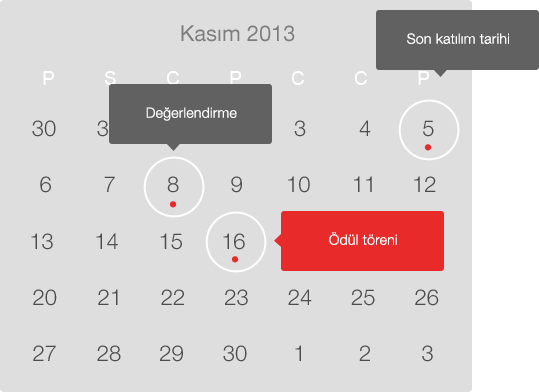
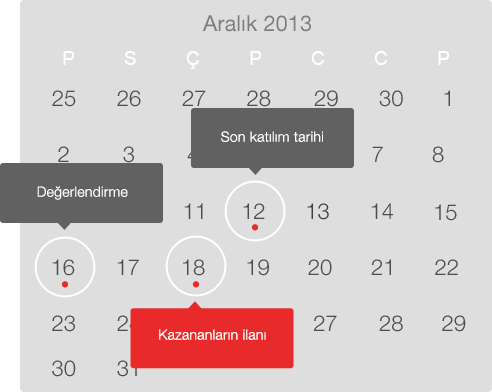
musteri revizeleri

diff --git a/application/views/welcome.php b/application/views/welcome.php
@@ -351,13 +351,14 @@ var loaded = 0;
 					$(".sol").fadeIn();
 					$(".case3dloading").hide();
 					var don = setInterval(function(){
-						if(frame == 40){
-							clearInterval(don);
+						if(frame == 80){
+							nextFrame(frame);
+							frame = 0;
 						}else{
 							nextFrame(frame);
 							frame++;
 						}
-					}, 50);
+					}, 60);
 				}
 
 				$(".yukleme_yuzde").text(((100 / 81) * loaded).toFixed(0));
@@ -706,9 +707,11 @@ var frame = 0;
 							<img src="<?php echo base_url(); ?>img/case/Case.RGB_color.00<?php echo $i; ?>.png" class="caseframe caseframe<?php echo $k;?>" data-frame="<?php echo $k;?>">
 						<?php $k++; } ?>
 					</div>
+					<? /*
 					<div class="slide-wrapper" style="margin-top:-32px;position:relative; z-index:99">
 						<div id="slider" style="width:300px;margin-left:16px;"></div>
 					</div>
+					*/?>
 				</div>
 			</div>
 
@@ -818,13 +821,11 @@ var frame = 0;
 				<h2>Yarışma Teması</h2>
 				<span class="pagekapat">X</span>
 				<div class="body" style="width:520px; margin:30px; line-height:20px;">
-					<p style="font-size:18px;"><span style="font-weight:bold;">Konsept:</span>Akıllı Telefon Case Yarışması</p>
+					<p style="font-size:18px;"><span style="font-weight:bold;">Konsept:</span>Akıllı Telefon Case Tasarımı  </p>
 					<br>
-					<p>Bridgestone olarak, üniversitelerin Güzel Sanatlar Fakültelerinde öğrenim gören, yeni mezun ya da yeteneğine güvenen her daldan sanatçıyı günlük hayatın vazgeçilmez bir parçası haline gelen akıllı telefonlara case tasarlamaya davet ediyoruz! </p>
-					<br>
-					<p>Tasarım ve teknolojinin mükemmel uyumunu yakalamak için çıktığımız yolda “emniyet”e verdiğimiz önemi kendi tasarımlarına aktarabilecek genç yetenekler! Bridgestone Tasarım Yarışması büyük ödülleriyle sizi bekliyor…</p>
-					<br>
-					<p>Eğer sen de emniyet ve/veya lastiği tasarımlarımda en yaratıcı olarak ben kullanırım diyorsan; durma, tasarla, gönder!</p>
+					<p>Bridgestone olarak, yeteneğine güvenen her daldan sanatçıyı günlük hayatın vazgeçilmez bir parçası haline gelen akıllı telefonlara case tasarlamaya davet ediyoruz! </p>
+					<p>Tasarım ve teknolojinin mükemmel uyumunu yakalamak için çıktığımız yolda yaratıcılığa verdiğimiz önemi kendi tasarımlarına aktarabilecek genç yetenekler! Bridgestone Tasarım Yarışması büyük ödülleriyle sizi bekliyor.
+					<p>Eğer sen de lastik konseptini tasarımlarımda en yaratıcı olarak ben kullanırım diyorsan; durma, tasarla, gönder!</p>
 					<a href="#" class="case-indir"><img src="<?php echo base_url();?>img/caseindir-buton.png"></a>
 				</div>
 			</div>
@@ -1016,7 +1017,7 @@ var frame = 0;
 
 								<br>
 								<h4>YARIŞMANIN AMACI</h4>
-								<p>Üniversitelerin tasarım ile ilgili bölümlerinde öğrenim gören veya bu bölümlerden yeni mezun olmuş “Geleceğin Başarılı Tasarımcıları”nın yaratıcılıklarını geliştirmek, kariyerlerini desteklemek amacıyla düzenlenmektedir. </p>
+								<p>"Geleceğin Basşarılı Tasarımcıları'nın yaratıcılıklarını geliştirmek, kariyerlerini desteklemek amacıyla düzenlenmektedir.</p>
 								<br>
 								<h4>DEĞERLENDİRME KRİTERLERİ </h4>
 								<p>Jürinin değerlendirmesinde dikkate alınacak hususlar aşağıdaki gibidir;</p>
@@ -1040,29 +1041,23 @@ var frame = 0;
 								</p>
 								<br>
 								<h4>BAŞVURU KOŞULLARI</h4>
-								<p>T.C. vatandaşı olmak veya - T.C. vatandaşı olmayanlar için - T.C. üniversitelerinin B fıkrasında sözü edilen ilgili bölümlerinde öğrenci olmak.</p>
-								 <br>
-								<p>Yarışma, üniversitelerin tasarım ile ilgili bölümlerine kayıtlı lisans öğrencilerine ve bu bölümlerden mezuniyetleri üzerinden 1yıl geçmemiş yeni mezunlara açıktır.</p>
-								  <br>
-								<p>Katılımcı, en fazla 3 tasarım ile yarışmaya katılabilir.</p>
-								 <br>
-								<p>Yarışmaya katılan her projede özgünlük, daha önce başka bir yerde üretilmemiş olması, başka bir yarışmada ödül almamış olması şartları aranmaktadır. Bunun aksi bir durumun tespiti halinde, proje yarışmadan diskalifiye edilir. Ayrıca, yarışmaya gönderilen eserin özgün bir çalışma olmaması, aksine bir iddia olması ve üçüncü kişilerin tasarım üzerinde hak iddia etmesi durumunda sorumluluk yarışmacıya ait olacaktır.</p>
-								<br>
-								<p>Finale kalan ilk 10 finalist, tasarımlarının kullanım haklarını, hiçbir koşul öne sürmeksizin sözleşme ile Brisa Bridgestone Sabancı Lastik Sanayi ve Ticaret A. Ş.’ye devretmiş sayılacaktır. </p>
-								<br>
-								<p>Yarışma sonrası tasarımcılar verilecek ödüllerin dışında Brisa Bridgestone Sabancı Lastik Sanayi ve Ticaret A. Ş.’den hiçbir talep, hak ve iddiada bulunamazlar. </p>
-								<br>
-								<p>Finale kalan tasarımların uygulanması ve üretimi durumunda proje sahiplerine ayrıca bir ücret ödenmez. </p>
-								<br>
-								<p>Bu projelerin Fikir ve Sanat Eserleri Kanunu (FSEK) kapsamında tüm mali ve mülkiyet hakları süre, yer ve muhteva bakımından sınırsız olmak kaydıyla münhasıran Brisa Bridgestone Sabancı Lastik Sanayi ve Ticaret A. Ş.’ye devir edilmiş olur. </p>
-								<br>
-								<p>Proje sahibi, isminin yayınlanmasına şimdiden muvafakat eder. </p>
-								<br>
-								<p>Brisa Bridgestone Sabancı Lastik Sanayi ve Ticaret A. Ş. organizasyonla ilgili yaptığı değişikliklerden sorumlu tutulamaz.</p>
-								<br>
-								<p>Yarışmaya müracaat edebilmek için, tasarım sahiplerinin aşağıda yer alan taahhütnameyi imzalayarak Promoküp Bilişim Teknolojileri A.Ş’nin resmi adresine göndermeleri gerekmektedir:</p>
-								<br>
+								<p>Katılımcı, istediği sayıda tasarım ile yarışmaya katılabilir.</p>
 
+								<p>Yarışmaya katılan her projede özgünlük, daha önce başka bir yerde üretilmemiş olması, başka bir yarışmada ödül almamış olması şartları aranmaktadır. Bunun aksi bir durumun tespiti halinde, proje yarışmadan diskalifiye edilir. Ayrıca, yarışmaya gönderilen eserin özgün bir çalışma olmaması, aksine bir iddia olması ve üçüncü kişilerin tasarım üzerinde hak iddia etmesi durumunda sorumluluk yarışmacıya ait olacaktır.</p>
+
+								<p>Finale kalan ilk 10 finalist, tasarımlarının kullanım haklarını, hiçbir koşul öne sürmeksizin sözleşme ile Brisa Bridgestone </p>
+
+								<p>Sabancı Lastik Sanayi ve Ticaret A. Ş.’ye devretmiş sayılacaktır. </p>
+
+								<p>Yarışma sonrası tasarımcılar verilecek ödüllerin dışında Brisa Bridgestone Sabancı Lastik Sanayi ve Ticaret A. Ş.’den hiçbir talep, hak ve iddiada bulunamazlar. </p>
+
+								<p>Finale kalan tasarımların uygulanması ve üretimi durumunda proje sahiplerine ayrıca bir ücret ödenmez. </p>
+
+								<p>Bu projelerin Fikir ve Sanat Eserleri Kanunu (FSEK) kapsamında tüm mali ve mülkiyet hakları süre, yer ve muhteva bakımından sınırsız olmak kaydıyla münhasıran Brisa Bridgestone Sabancı Lastik Sanayi ve Ticaret A. Ş.’ye devir edilmiş olur. </p>
+
+								<p>Proje sahibi, isminin yayınlanmasına şimdiden muvafakat eder. </p>
+
+								<p>Brisa Bridgestone Sabancı Lastik Sanayi ve Ticaret A. Ş. organizasyonla ilgili yaptığı değişikliklerden sorumlu tutulamaz.</p>
 
 								<h4>TAAHHÜTNAME</h4>
 								<p>Brisa Bridgestone Sabancı Lastik Sanayi ve Ticaret A. Ş. tarafından düzenlenmekte olan “Bridgestone Tasarım Yarışması 2013” yarışmasına sunmuş olduğum tasarım ile katılmış bulunmaktayım. </p>
@@ -1085,16 +1080,20 @@ var frame = 0;
 								<br>
 
 								<h4>VERİLECEK ÖDÜLLER </h4>
-								<p>Birincilik Ödülü MacBook Pro 13" Retina DC i5 2.5GHz/8GB/128GB flash/HDG4000 ve  CS6 ADOBE DESIGN STD 6 WIN & MAC AOO LICENSE</p>
-								<p>İkincilik Ödülü MacBook Air 11" DC i5 1.3GHz/4GB/128GB/HDG ve CS6 ADOBE DESIGN STD 6 WIN & MAC AOO LICENSE</p>
-								<p>Üçüncülük Ödülü MacBook Air 11" DC i5 1.3GHz/4GB/128GB/HDG </p>
+								<p><span style="font-weight:bold">Birincilik Ödülü</span> MacBook Pro 13" Retina DC i5 2.5GHz/8GB/128GB flash/HDG4000 ve CS6 ADOBE DESIGN STD 6 WIN & MAC AOO LICENSE</p>
+
+								<p><span style="font-weight:bold">İkincilik Ödülü</span> MacBook Air 11" DC i5 1.3GHz/4GB/128GB/HDG ve CS6 ADOBE DESIGN STD 6 WIN & MAC AOO LICENSE</p>
+
+								<p><span style="font-weight:bold">Üçüncülük Ödülü</span> MacBook Air 11" DC i5 1.3GHz/4GB/128GB/HDG</p>
+
+								<p><span style="font-weight:bold">Mansiyon Ödülü</span> iPhone 5 16GB - Siyah</p>
 								<br>
 
 								<h4>TAKVIM</h4>
-								<p>Yarışma duyurusu 28 Ekim 2013</p>
-								<p>Son Başvuru tarihi 29 Kasım 2013</p>
-								<p>Jüri değerlendirmesi 30 Kasım 2013</p>
-								<p>Kazananların açıklanması 02 Aralık 2013</p>
+								<p>Yarışma başlangıç tarihi 12 Kasım 2013</p>
+								<p>Son katılım tarihi 12 Aralık 2013</p>
+								<p>Jüri değerlendirmesi 16 Aralık 2013</p>
+								<p>Kazananların açıklanması 18 Aralık 2013</p>
 
 						</div>
 					</div>
@@ -1108,15 +1107,24 @@ var frame = 0;
 				<div class="body" style=" margin:30px; line-height:20px;">
 					<div class="contentHolder" style="float:left;">
 						<div style="float:left;width:400px; height:400px;" class="scrollcontent">
-							<p>
-								Lorem Ipsum is simply dummy text of the printing and typesetting industry. Lorem Ipsum has been the industry's standard dummy text ever since the 1500s, when an unknown printer took a galley of type and scrambled it to make a type specimen book. It has survived not only five centuries, but also the leap into electronic typesetting, remaining essentially unchanged. It was popularised in the 1960s with the release of Letraset sheets containing Lorem Ipsum passages, and more recently with desktop publishing software like Aldus PageMaker including versions of Lorem Ipsum.
-								<br><br>
-								It is a long established fact that a reader will be distracted by the readable content of a page when looking at its layout. The point of using Lorem Ipsum is that it has a more-or-less normal distribution of letters, as opposed to using 'Content here, content here', making it look like readable English. Many desktop publishing packages and web page editors now use Lorem Ipsum as their default model text, and a search for 'lorem ipsum' will uncover many web sites still in their infancy. Various versions have evolved over the years, sometimes by accident, sometimes on purpose (injected humour and the like).
-							 	<br><br>
-								Contrary to popular belief, Lorem Ipsum is not simply random text. It has roots in a piece of classical Latin literature from 45 BC, making it over 2000 years old. Richard McClintock, a Latin professor at Hampden-Sydney College in Virginia, looked up one of the more obscure Latin words, consectetur, from a Lorem Ipsum passage, and going through the cites of the word in classical literature, discovered the undoubtable source. Lorem Ipsum comes from sections 1.10.32 and 1.10.33 of "de Finibus Bonorum et Malorum" in their exact original form, accompanied by English versions from the 1914 translation by H. Rackham.
-								<br><br>
-								Lorem Ipsum comes from sections 1.10.32 and 1.10.33 of "de Finibus Bonorum et Malorum" in their exact original form, accompanied by English versions from the 1914 translation by H. Rackham.
-							</p>
+							<p>Katılımcı, istediği sayıda tasarım ile yarışmaya katılabilir.</p>
+
+							<p>Yarışmaya katılan her projede özgünlük, daha önce başka bir yerde üretilmemiş olması, başka bir yarışmada ödül almamış olması şartları aranmaktadır. Bunun aksi bir durumun tespiti halinde, proje yarışmadan diskalifiye edilir. Ayrıca, yarışmaya gönderilen eserin özgün bir çalışma olmaması, aksine bir iddia olması ve üçüncü kişilerin tasarım üzerinde hak iddia etmesi durumunda sorumluluk yarışmacıya ait olacaktır.</p>
+
+							<p>Finale kalan ilk 10 finalist, tasarımlarının kullanım haklarını, hiçbir koşul öne sürmeksizin sözleşme ile Brisa Bridgestone </p>
+
+							<p>Sabancı Lastik Sanayi ve Ticaret A. Ş.’ye devretmiş sayılacaktır. </p>
+
+							<p>Yarışma sonrası tasarımcılar verilecek ödüllerin dışında Brisa Bridgestone Sabancı Lastik Sanayi ve Ticaret A. Ş.’den hiçbir talep, hak ve iddiada bulunamazlar. </p>
+
+							<p>Finale kalan tasarımların uygulanması ve üretimi durumunda proje sahiplerine ayrıca bir ücret ödenmez. </p>
+
+							<p>Bu projelerin Fikir ve Sanat Eserleri Kanunu (FSEK) kapsamında tüm mali ve mülkiyet hakları süre, yer ve muhteva bakımından sınırsız olmak kaydıyla münhasıran Brisa Bridgestone Sabancı Lastik Sanayi ve Ticaret A. Ş.’ye devir edilmiş olur. </p>
+
+							<p>Proje sahibi, isminin yayınlanmasına şimdiden muvafakat eder. </p>
+
+							<p>Brisa Bridgestone Sabancı Lastik Sanayi ve Ticaret A. Ş. organizasyonla ilgili yaptığı değişikliklerden sorumlu tutulamaz.</p>
+
 						</div>
 					</div>
 				</div>
